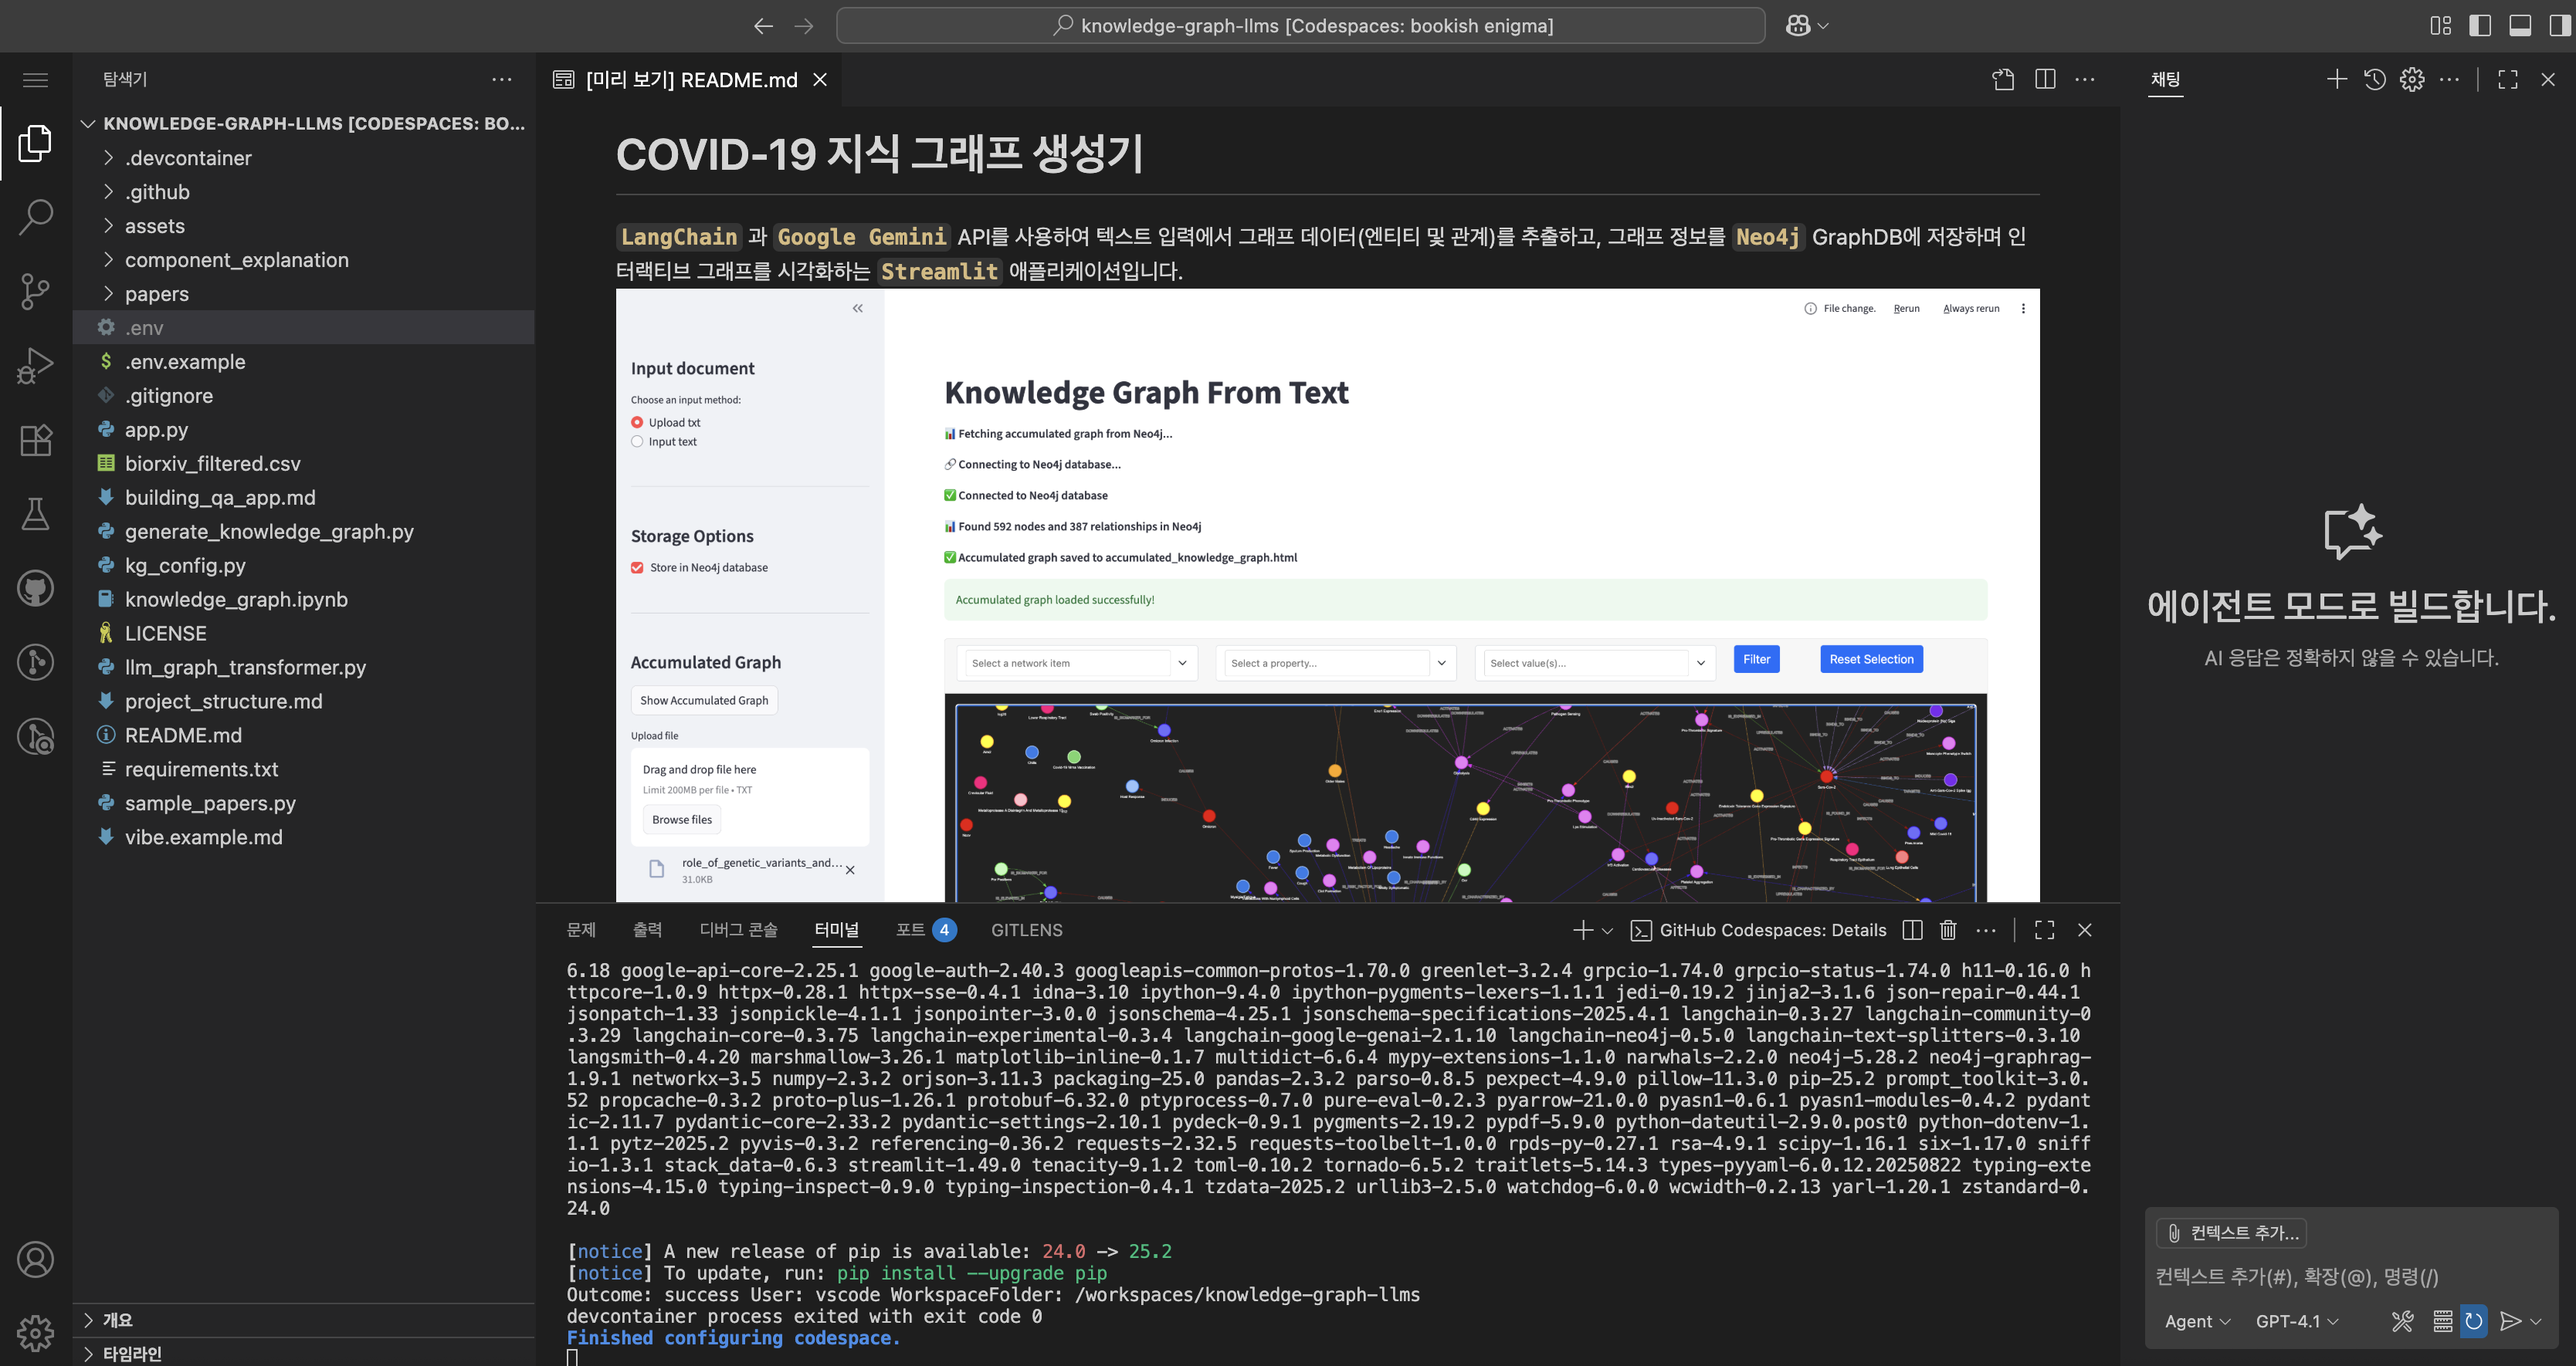
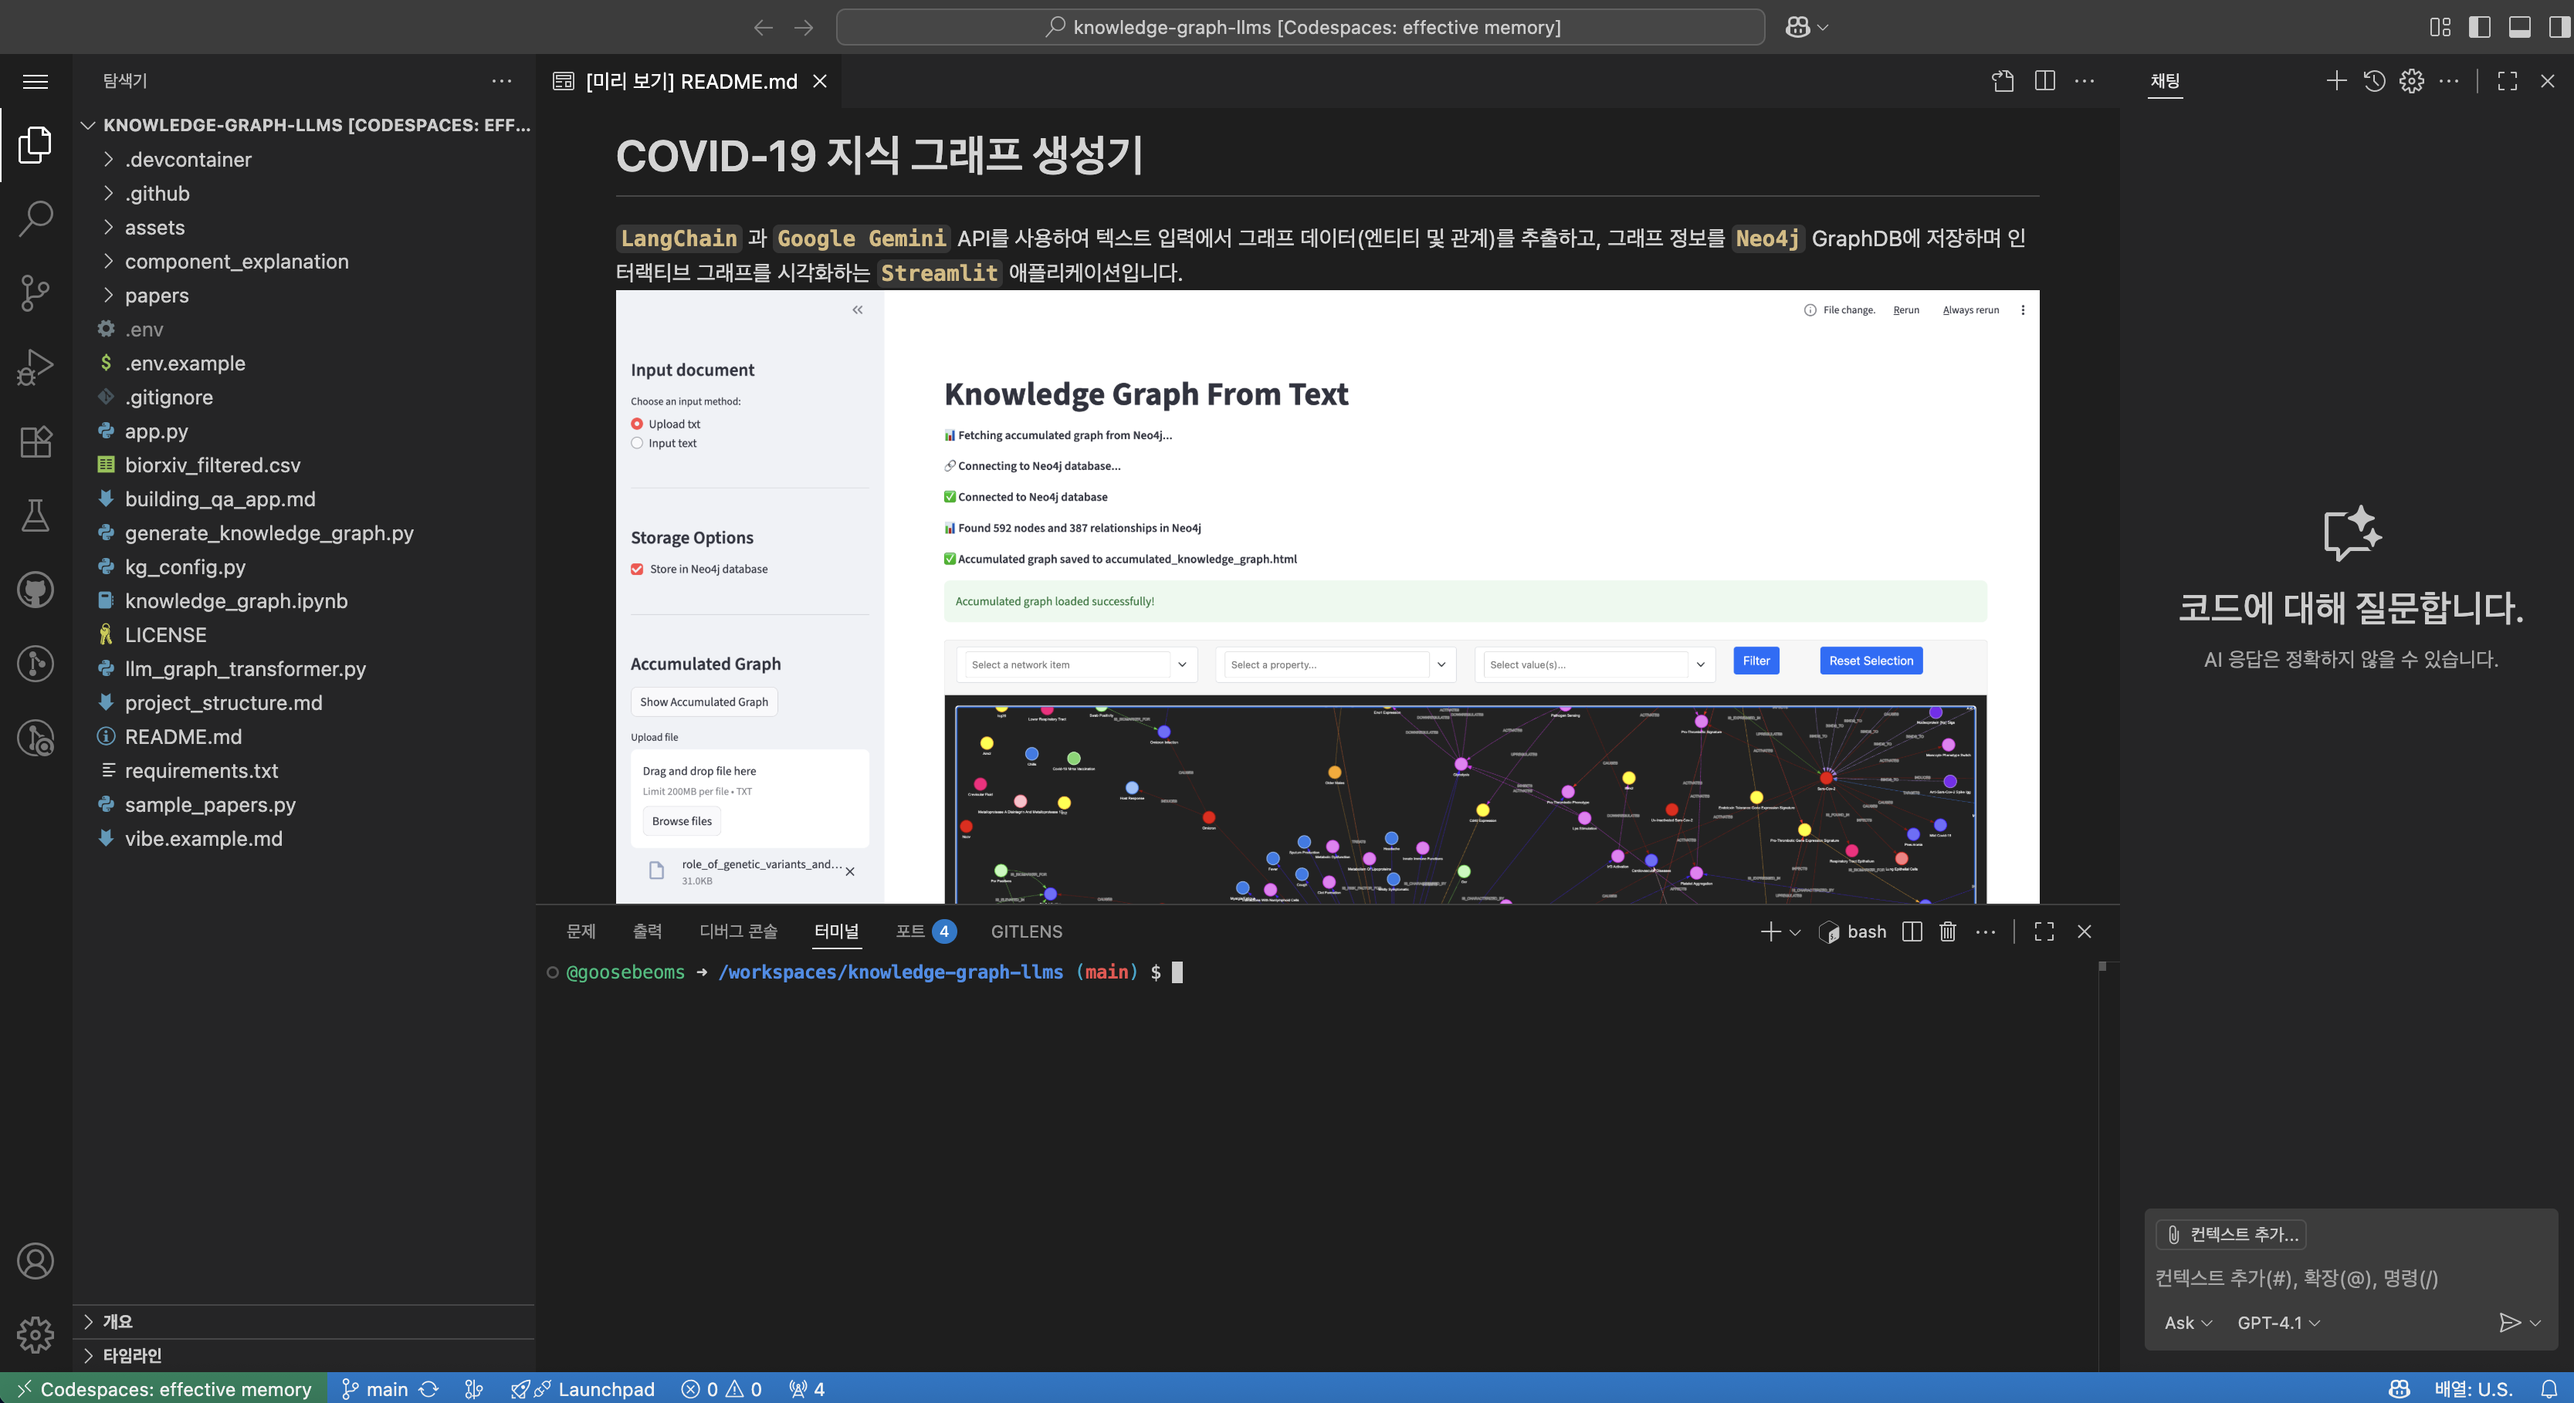
modify example screen

diff --git a/README.md b/README.md
@@ -42,7 +42,7 @@ COVID-19 논문 데이터는 [kaggle](https://www.kaggle.com/code/xhlulu/cord-19
 > **`git clone`** 을 하고 필요한 패키지를 모두 설치한 것과 동일한 상태로 **`vscode`** 와 터미널을 사용할 수 있습니다.  
 > **`codespace`** 를 사용하지 않는다면 터미널에서 **`git clone`** 을 실행하고 필요한 패키지를 모두 설치해야 합니다.
 
-페이지 로딩 시간이 좀 걸리니 다음 단계로 계속 진행하시면 됩니다.  
+페이지 로딩 시간이 5분 가량 걸리니 다음 단계로 계속 진행하시면 됩니다.  
 다음과 같은 화면이 나올 시 **`codespace`** 가 정상적으로 만들어진 상황입니다.
 
 ![alt text](./assets/example_screen.png)
@@ -58,7 +58,7 @@ COVID-19 논문 데이터는 [kaggle](https://www.kaggle.com/code/xhlulu/cord-19
 6. .txt 파일이 **`Downloads`** 디렉토리에 있는지, 다음과 같은 정보를 포함하는지 확인
 ![Alt text](./assets/neo4j_credentials.png)
 
-페이지 로딩에 시간이 좀 걸리니 다음 단계로 계속 진행하시면 됩니다.
+페이지 로딩에 시간이 5분 가량 걸리니 다음 단계로 계속 진행하시면 됩니다.
 
 ---
 ### 3. Google Gemini API 키 가져오기
